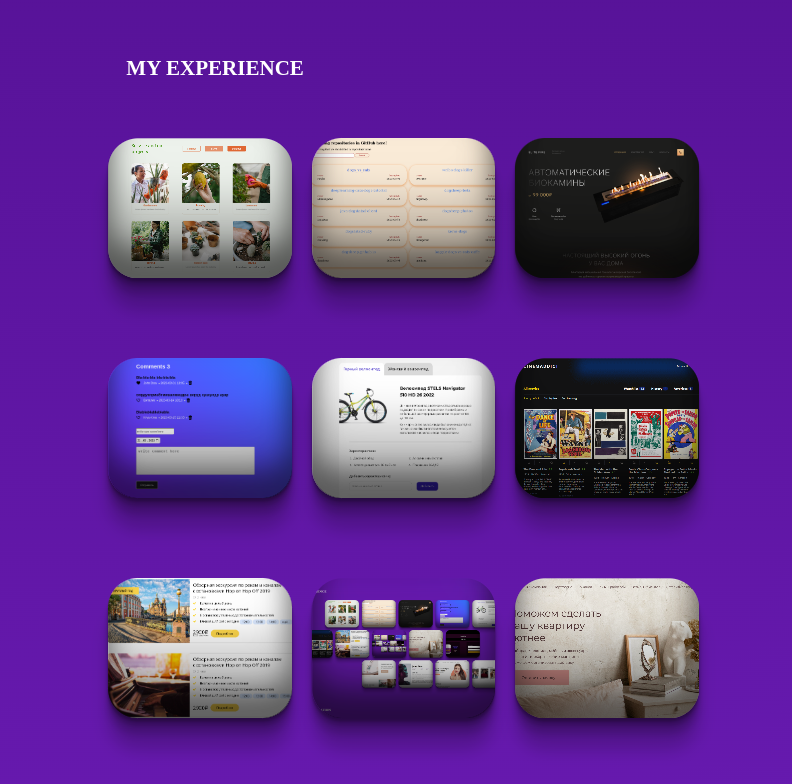
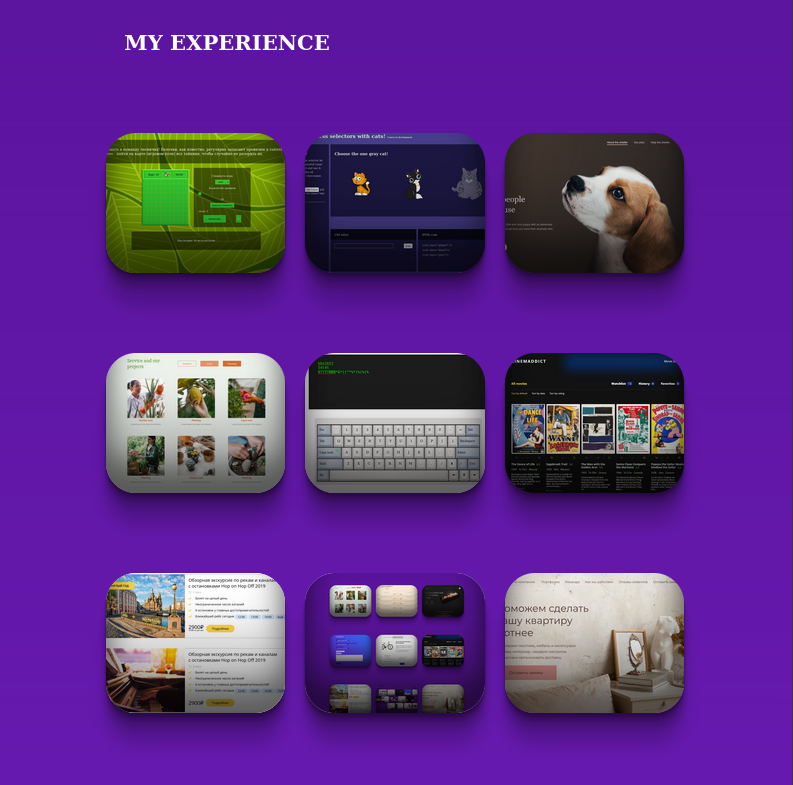
feat: new content

diff --git a/index.html b/index.html
@@ -45,11 +45,13 @@
           <h1 class="header-title summary-title">Hi, I'm Natalia!</h1>
           <h2 class="header-subtitle">Frontend Developer / HTML-coder</h2>
           <div class="header-text summary">
-            I'm an HTML, CSS, and Javascript developer with experience in OOP. Have been developing since
-            2020. I was creating Single Page Application using the MVP, adaptive, and cross-browser layouts.
-            Moreover, I have a bit of experience with React and Angular and continue my learning. I'm a quick
-            learner, who has a high attention to details and accuracy of work.
-            Adaptable, driven, and responsible.
+            I'm a Front-end Developer with experience in HTML, CSS, Javascript and TypeScript – Including OOP and the ability to
+            deliver pixel-perfect and adaptive layouts. Created more than 10 landing pages (with interactive elements, such as pagination,
+            carousels, burger menus, virtual keyboard, etc), two apps using React, two SPA with pure JS and two with TS, developed a lot
+            of single fragment stuff, such as comment-form, goods cards, accordion, etc.
+            Was a member of a teams, which developed construction investment application and crypto startup.
+            I have been developing since 2020. Have a bit of experience with React and Angular. Love coding, love work, and love to
+            communicate. I'm a quick learner and have got high attention to detail. Adaptable, driven, and responsible.
           </div>
         </div>
       </div>
@@ -80,7 +82,7 @@
           <h2 class="section-title skills-title">Skills</h2>
           <ul class="list skills-list">
             <li class="skills-item">HTML, CSS (Flex, Grid)</li>
-            <li class="skills-item">Javascript</li>
+            <li class="skills-item">JavaScript, TypeScript</li>
             <li class="skills-item">SCSS, PUG;</li>
             <li class="skills-item">Gulp, webpack</li>
             <li class="skills-item">GIT</li>
@@ -113,10 +115,137 @@
         </section>
       </div>
 
-      <section class="experience"
-               id="experience">
+      <section class="experience" id="experience">
         <h3 class="section-title experience-title">My experience</h3>
         <ul class="list experience-list">
+          <li class="experience-item modal" data-modal="keyboard">
+            <svg class="modal__cross js-modal-close" xmlns="http://www.w3.org/2000/svg" viewBox="0 0 24 24">
+              <path d="M23.954 21.03l-9.184-9.095 9.092-9.174-2.832-2.807-9.09 9.179-9.176-9.088-2.81 2.81 9.186 9.105-9.095 9.184 2.81 2.81 9.112-9.192 9.18 9.1z" />
+            </svg>
+            <figure class="figure">
+              <img class="experience-img"
+                 src="./assets/img/keyboard.png"
+                 alt="virtual keyboard"
+                 width="600">
+              <figcaption>
+                Virtual keyboard
+              </figcaption>
+            </figure>
+            <h4 class="pet-title">Virtual keyboard</h4>
+            <ul class="list features">
+              <li class="features-item">Dynamic rendering (ctrl+alt changes language, shift adds special symbols);</li>
+              <li class="features-item">DOM-events;</li>
+              <li class="features-item">Syncronization real and virtual keyboard</li>
+              <li class="features-item">Css-animation effects;</li>
+            </ul>
+              <div class="experience-links">
+                <a class="link pet-link"
+                  href="https://github.com/NataliaVozhdaeva/virtual-keyboard"
+                  target="_blank"> Show github
+                </a>
+                <a class="link pet-link"
+                  href="https://nataliavozhdaeva.github.io/virtual-keyboard/"
+                  target="_blank"> Show deploy
+                </a>
+              </div>
+            </li>
+          <li class="experience-item modal" data-modal="minesweeper">
+            <svg class="modal__cross js-modal-close" xmlns="http://www.w3.org/2000/svg" viewBox="0 0 24 24">
+              <path d="M23.954 21.03l-9.184-9.095 9.092-9.174-2.832-2.807-9.09 9.179-9.176-9.088-2.81 2.81 9.186 9.105-9.095 9.184 2.81 2.81 9.112-9.192 9.18 9.1z" />
+            </svg>
+            <figure class="figure">
+              <img class="experience-img"
+                 src="./assets/img/minesweeper.png"
+                 alt="CSS-trainer"
+                 width="600">
+              <figcaption>
+                Minesweeper
+              </figcaption>
+            </figure>
+            <h4 class="pet-title">Minesweeper</h4>
+            <ul class="list features">
+              <li class="features-item">Dynamic rendering;</li>
+              <li class="features-item">DOM-events;</li>
+              <li class="features-item">Eslint;</li>
+              <li class="features-item">Light/Dark theme;</li>
+              <li class="features-item">Adaptive (tablet, mobile), liquid and semantic layout;</li>
+            </ul>
+              <div class="experience-links">
+                <a class="link pet-link"
+                  href="https://github.com/NataliaVozhdaeva/rss/tree/minesweeper"
+                  target="_blank"> Show github
+                </a>
+                <a class="link pet-link"
+                  href="https://nataliavozhdaeva.github.io/rss/minesweeper/"
+                  target="_blank"> Show deploy
+                </a>
+              </div>
+            </li>
+          <li class="experience-item modal" data-modal="trainer">
+            <svg class="modal__cross js-modal-close" xmlns="http://www.w3.org/2000/svg" viewBox="0 0 24 24">
+              <path d="M23.954 21.03l-9.184-9.095 9.092-9.174-2.832-2.807-9.09 9.179-9.176-9.088-2.81 2.81 9.186 9.105-9.095 9.184 2.81 2.81 9.112-9.192 9.18 9.1z" />
+            </svg>
+            <figure class="figure">
+              <img class="experience-img"
+                 src="./assets/img/css-train.png"
+                 alt="CSS-trainer"
+                 width="600">
+              <figcaption>
+                CSS-trainer
+              </figcaption>
+            </figure>
+            <h4 class="pet-title">CSS-selector simulator</h4>
+            <ul class="list features">
+              <li class="features-item">TypeScript;</li>
+              <li class="features-item">Modules;</li>
+              <li class="features-item">Webpack;</li>
+              <li class="features-item">OOP;</li>
+              <li class="features-item">Adaptive (tablet, mobile), liquid and semantic layout;</li>
+            </ul>
+              <div class="experience-links">
+                <a class="link pet-link"
+                  href="https://github.com/NataliaVozhdaeva/rss/tree/rs-css"
+                  target="_blank"> Show github
+                </a>
+                <a class="link pet-link"
+                  href="https://nataliavozhdaeva.github.io/rss/rs-css/"
+                  target="_blank"> Show deploy
+                </a>
+              </div>
+            </li>
+          <li class="experience-item modal" data-modal="shelter">
+          <svg class="modal__cross js-modal-close" xmlns="http://www.w3.org/2000/svg" viewBox="0 0 24 24">
+            <path d="M23.954 21.03l-9.184-9.095 9.092-9.174-2.832-2.807-9.09 9.179-9.176-9.088-2.81 2.81 9.186 9.105-9.095 9.184 2.81 2.81 9.112-9.192 9.18 9.1z" />
+          </svg>
+          <figure class="figure">
+            <img class="experience-img"
+               src="./assets/img/shelter.png"
+               alt="Landing for shelter"
+               width="600">
+            <figcaption>
+              Shelter
+            </figcaption>
+          </figure>
+          <h4 class="pet-title">Landing for animal's shelter</h4>
+          <ul class="list features">
+            <li class="features-item">Popup for animal's cards;</li>
+            <li class="features-item">Neverending slider;</li>
+            <li class="features-item">Pagination;</li>
+            <li class="features-item">Mobile burger-menu;</li>
+            <li class="features-item">Adaptive (tablet, mobile), liquid and semantic layout;</li>
+          </ul>
+            <div class="experience-links">
+              <a class="link pet-link"
+                href="https://github.com/NataliaVozhdaeva/rss/tree/shelter"
+                target="_blank"> Show github
+              </a>
+              <a class="link pet-link"
+                href="https://nataliavozhdaeva.github.io/rss/shelter/"
+                target="_blank"> Show deploy
+              </a>
+            </div>
+          </li>
+
           <li class="experience-item modal"
               data-modal="plants">
             <svg class="modal__cross js-modal-close"
@@ -199,10 +328,7 @@
                     d="M23.954 21.03l-9.184-9.095 9.092-9.174-2.832-2.807-9.09 9.179-9.176-9.088-2.81 2.81 9.186 9.105-9.095 9.184 2.81 2.81 9.112-9.192 9.18 9.1z" />
             </svg>
             <figure class="figure">
-              <img class="experience-img"
-                   src="./assets/img/elite-fire.png"
-                   alt="Landing for fireplace for home"
-                   width="600">
+              <img class="experience-img" src="./assets/img/elite-fire.png" alt="Landing for fireplace for home"  width="600">
               <figcaption>
                 Elite fire
               </figcaption>
@@ -326,8 +452,7 @@
                 doesn't respond;
               </li>
               <li class="features-item">adding and deleting comments;</li>
-              <li class="features-item">you can filter and sort movies;</li>
-              <li class="features-item">you can create your own rating;</li>
+              <li class="features-item">you can filter and sort movies and create your own rating;</li>
               <li class="features-item">Moreover a fixed the academy's code.</li>
             </ul>
             <div class="experience-links">
@@ -403,11 +528,11 @@
             </ul>
             <div class="experience-links">
               <a class="link pet-link"
-                 href="https://github.com/NataliaVozhdaeva/rsschool-cv/tree/rsschool-cv-html"
+                 href="https://github.com/NataliaVozhdaeva/portfolio"
                  target="_blank"> Show github
               </a>
               <a class="link pet-link"
-                 href="https://nataliavozhdaeva.github.io/rsschool-cv/"
+                 href="https://nataliavozhdaeva.github.io/portfolio/"
                  target="_blank"> Show deploy
               </a>
             </div>
@@ -634,7 +759,7 @@
             <h4 class="education-item-title">RSScool</h4>
             <p class="education-duration">12.2022 - right now</p>
             <p class="item-text education-text">
-              New skills will be here!!!
+              JavaScript, TypeScript, Async programming, ES6, React/Angular and other new skills will be here!
             </p>
           </li>
           <li class="education-item">
@@ -688,7 +813,7 @@
       </a>
       <div class="btn-container">
         <a class="link btn footer-btn downloadcv"
-           href="./assets/docs/Frontend_Natalia Vozhdaeva.pdf"
+           href="./assets/docs/Natalia_Vozhdaeva CV.pdf"
            target="_blank"
            download>Download CV in .pdf
         </a>
